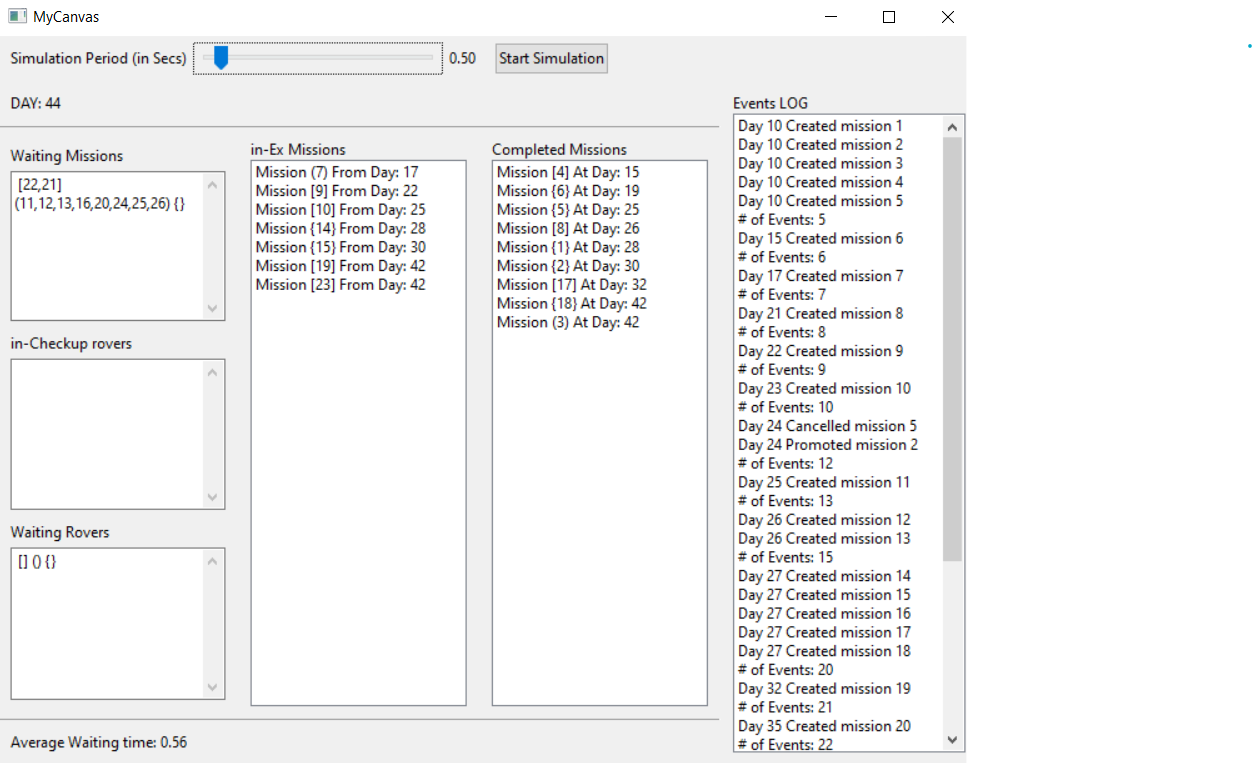
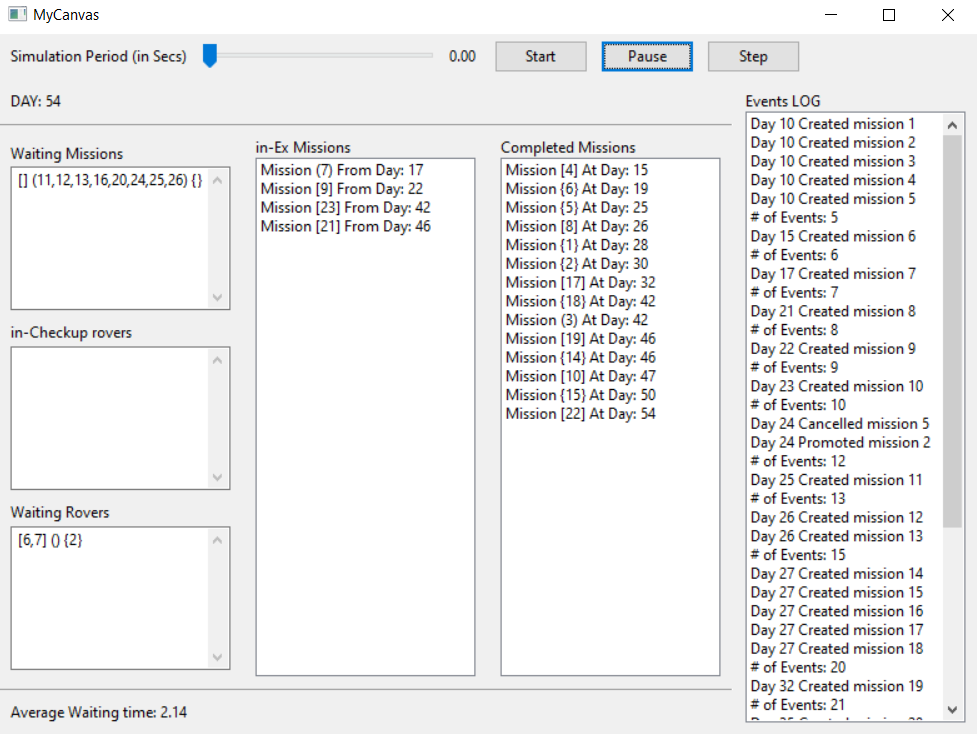
The Interactive mode

diff --git a/FRAME.h b/FRAME.h
@@ -8,7 +8,9 @@
 
 #include "Formulation.h"
 #include "Promotion.h"
-wxDEFINE_EVENT(START_SIMULATION, wxCommandEvent);
+
+
+//wxDEFINE_EVENT(START_SIMULATION, wxCommandEvent);
 
 
 class MyCanvas : public wxFrame
@@ -18,21 +20,26 @@ public:
 	wxMessageDialog* error_dial;
 	wxMessageDialog* info_dial;
 
-	
+
 	MarsStation* p_station;
+	void init_station();
 	//upper part
 
 	wxSlider* slider;
 	wxStaticText* slider_label;
 	wxStaticText* slider_value;
 	wxButton* Start_B;
+	wxButton* Pause_B;
+	wxButton* Step_B;
 
 
 
 	void OnScroll(wxScrollEvent& event);
 	void Update_Screen();
-	void OnClick(wxCommandEvent& event);
+	//void OnClick(wxCommandEvent& event);
 	void OnStart(wxCommandEvent& event);
+	void OnPause(wxCommandEvent& event);
+	void OnStep(wxCommandEvent& event);
 
 
 
@@ -57,15 +64,16 @@ public:
 	titled_List_panel* in_ex_list;
 	titled_List_panel* comp_miss_list;
 
+	bool continue_sim;
 
 	~MyCanvas();
 };
 
 MyCanvas::MyCanvas(const wxString& title)
-	:wxFrame(NULL, wxID_ANY, title, wxDefaultPosition, wxSize(800, 600))
+	:wxFrame(NULL, wxID_ANY, title, wxDefaultPosition, wxSize(800, 600)), continue_sim(true)
 {
 	wxFrame::SetMinSize(wxSize(700, 600));
-
+	init_station();
 	//designing that shit
 
 	wxPanel* panel = new wxPanel(this, -1);
@@ -78,17 +86,18 @@ MyCanvas::MyCanvas(const wxString& title)
 	slider = new wxSlider(panel, ID_SLIDER, 2, 0, 20, wxPoint(-1, -1),
 		wxSize(200, -1), wxSL_HORIZONTAL);
 
-	Start_B = new wxButton(panel, ID_Start_B, wxT("Start Simulation"));;
-
+	Start_B = new wxButton(panel, ID_Start_B, wxT("Start"));
+	Pause_B = new wxButton(panel, ID_Pause_B, wxT("Pause"));
+	Step_B = new wxButton(panel, ID_Step_B, wxT("Step"));
 
 	Connect(ID_SLIDER, wxEVT_COMMAND_SLIDER_UPDATED,
 		wxScrollEventHandler(MyCanvas::OnScroll));
-
-	Connect(ID_Start_B, wxEVT_COMMAND_BUTTON_CLICKED,
-		wxCommandEventHandler(MyCanvas::OnStart));
-
-	//Bind(START_SIMULATION, &MyCanvas::OnStart, this);
-
+	//Bind is Better than Connect
+	Start_B->Bind(wxEVT_COMMAND_BUTTON_CLICKED, &MyCanvas::OnStart, this);
+	Pause_B->Bind(wxEVT_COMMAND_BUTTON_CLICKED, &MyCanvas::OnPause, this);
+	Step_B->Bind(wxEVT_COMMAND_BUTTON_CLICKED, &MyCanvas::OnStep, this);
+	
+	
 	slider_value = new wxStaticText(panel, ID_SLIDER_value, wxT("1.00"));
 	h_upper_box->AddSpacer(10);
 
@@ -97,6 +106,8 @@ MyCanvas::MyCanvas(const wxString& title)
 	h_upper_box->Add(slider_value, 0, wxEXPAND | wxUP, 10);
 	h_upper_box->AddSpacer(10);
 	h_upper_box->Add(Start_B, 0, wxEXPAND | wxALL, 5);
+	h_upper_box->Add(Pause_B, 0, wxEXPAND | wxALL, 5);
+	h_upper_box->Add(Step_B, 0, wxEXPAND | wxALL, 5);
 
 
 
@@ -106,7 +117,7 @@ MyCanvas::MyCanvas(const wxString& title)
 
 	wxBoxSizer* v_miss_with_average_and_day_box = new wxBoxSizer(wxVERTICAL);
 
-	day_text = new wxStaticText(panel, -1, wxT("DAY: 00"),wxPoint(-1,-1),wxSize(300,-1));
+	day_text = new wxStaticText(panel, -1, wxT("DAY: 00"), wxPoint(-1, -1), wxSize(300, -1));
 
 
 
@@ -148,7 +159,7 @@ MyCanvas::MyCanvas(const wxString& title)
 
 
 
-	average_text = new wxStaticText(panel, -1, wxT("Average Waiting time: 0.00"),wxPoint(-1, -1), wxSize(300, -1));
+	average_text = new wxStaticText(panel, -1, wxT("Average Waiting time: 0.00"), wxPoint(-1, -1), wxSize(300, -1));
 
 	v_miss_with_average_and_day_box->Add(day_text, 0, wxEXPAND | wxALL, 10);
 	wxStaticLine* sl1 = new wxStaticLine(panel, wxID_ANY, wxPoint(-1, -1),
@@ -183,6 +194,20 @@ MyCanvas::MyCanvas(const wxString& title)
 	panel->SetSizer(v_all_box);
 	Center();
 }
+
+inline void MyCanvas::init_station()
+{
+	p_station = new MarsStation;
+	if (!p_station->check_valid_data())
+	{
+		bool isWritten = p_station->write_output_file();
+
+		error_dial = new wxMessageDialog(NULL,
+			wxT("Error: Wrong Input Data."), wxT("Error"), wxOK | wxICON_ERROR);
+		error_dial->ShowModal();
+	}
+
+}
 inline MyCanvas::~MyCanvas()
 {
 	delete error_dial;
@@ -190,7 +215,7 @@ inline MyCanvas::~MyCanvas()
 
 
 	delete p_station;
-	
+
 
 
 }
@@ -204,64 +229,73 @@ inline void MyCanvas::OnScroll(wxScrollEvent& event)
 
 }
 
-inline void MyCanvas::OnClick(wxCommandEvent& event)
-{
 
-
-	wxCommandEvent eve(START_SIMULATION); // No specific id
-
-
-	//// Then post the event
-	wxPostEvent(this, eve); // to ourselves
-
-}
 inline void MyCanvas::OnStart(wxCommandEvent& event)
 {
 	wxTheApp->Yield();
-	p_station = new MarsStation;
+	
 
-	if (!p_station->check_valid_data())
-	{
-		bool isWritten = p_station->write_output_file();
-
-		error_dial = new wxMessageDialog(NULL,
-			wxT("Error: Wrong Input Data."), wxT("Error"), wxOK | wxICON_ERROR);
-		error_dial->ShowModal();
-
-		
-		return;
-	}
-
-	while (!p_station->check_last_day())
+	continue_sim = true; //to continue it if it was paused
+	while (continue_sim && !p_station->check_last_day())
 	{
 		p_station->simulate_day();
 		Update_Screen();
 		Sleep(slider->GetValue() / 2.0 * 1000);
 	}
 
-
-	bool isWritten = p_station->write_output_file();
-
-	if(isWritten)
+	if (p_station->check_last_day())
 	{
 
-		info_dial = new wxMessageDialog(NULL,
-			wxT("Output File was Created."), wxT("Finished"), wxOK);
-		info_dial->ShowModal();
-		
+		bool isWritten = p_station->write_output_file();
+
+		if (isWritten)
+		{
+
+			info_dial = new wxMessageDialog(NULL,
+				wxT("Output File was Created."), wxT("Finished"), wxOK);
+			info_dial->ShowModal();
+
+		}
 	}
 
 
-	
+
 }
 
+void MyCanvas::OnPause(wxCommandEvent& event)
+{
+	continue_sim = false;
+
+}
+void MyCanvas::OnStep(wxCommandEvent& event)
+{
+	p_station->simulate_day();
+	Update_Screen();
+
+
+
+	if (p_station->check_last_day())
+	{
+
+		bool isWritten = p_station->write_output_file();
+
+		if (isWritten)
+		{
+
+			info_dial = new wxMessageDialog(NULL,
+				wxT("Output File was Created."), wxT("Finished"), wxOK);
+			info_dial->ShowModal();
+
+		}
+	}
+}
 inline void MyCanvas::Update_Screen()
 {
 	wxTheApp->Yield();
 
 	//wxString stringnumber = wxString::Format(wxT( "DAY %.0f"), p_station->get_current_day());
 
-	day_text->SetLabel("DAY: "+ std::to_string(p_station->get_current_day()));
+	day_text->SetLabel("DAY: " + std::to_string(p_station->get_current_day()));
 
 	waiting_miss->Clear();
 	// First --> print the ID of the E missions
@@ -474,7 +508,7 @@ inline void MyCanvas::Update_Screen()
 	int no_completed = p_station->get_completed_missions_().getItemCount();
 	for (int i = 1; i <= no_completed; i++)   //itemCount does not change during this loop
 	{
-		
+
 		std::string ss = "Mission";
 		Mission* mm = p_station->get_completed_missions_().getEntry(i);
 		waiting_days += mm->getWD();
@@ -542,7 +576,7 @@ inline void MyCanvas::Update_Screen()
 	{
 		average_text->SetLabel(wxString::Format(wxT("Average Waiting time: %.2f"), waiting_days / no_completed));
 	}
-	
+
 
 
 

diff --git a/UI.cpp b/UI.cpp
@@ -14,11 +14,11 @@ SIM_MODE UI::get_input_mode()
 {
 
 	std::cout << "Please select The mode you want to enter" << endl <<
-		"1- Interactive Mode\n2- Step-By-Step Mode\n3- Silent Mode\n enter: ";
+		"1- Interactive Mode(GUI)\n2- Silent Mode\n enter: ";
 
 	int n;
 	cin >> n;
-	while (n > 3 || n < 1)
+	while (n > 2 || n < 1)
 	{
 		cout << "Please enter a valid number: ";
 		cin >> n;
@@ -27,9 +27,6 @@ SIM_MODE UI::get_input_mode()
 	SIM_MODE a;
 	if (n == 1)
 		return SIM_MODE::INTERACTIVE;
-
-	if (n == 2)
-		return SIM_MODE::STEP_BY_STEP;
 
 	return SIM_MODE::SILENT;
 }

diff --git a/MarsStation.cpp b/MarsStation.cpp
@@ -32,20 +32,9 @@ SIM_MODE MarsStation::get_input_mode() const
 
 void MarsStation::execute_mode(SIM_MODE mode)
 {
-	if (mode == SIM_MODE::INTERACTIVE)
-	{
-		my_ui->InteractivePrinting();
-	}
-	else if (mode == SIM_MODE::STEP_BY_STEP)
-	{
-		my_ui->StepByStepPrinting();
-
-	}
-	else
-	{
+	
 		my_ui->SilentPrinting();
 
-	}
 }
 
 

diff --git a/Defs.h b/Defs.h
@@ -5,7 +5,6 @@
 enum class SIM_MODE
 {
 	INTERACTIVE,
-	STEP_BY_STEP,
 	SILENT
 };
 
@@ -44,3 +43,5 @@ int const ID_CheckUP_ROVER_TEXT = 102;
 const int ID_SLIDER = 103;
 const int ID_SLIDER_value = 104;
 const int ID_Start_B = 105;
+const int ID_Pause_B = 106;
+const int ID_Step_B = 107;

diff --git a/main.cpp b/main.cpp
@@ -37,7 +37,7 @@ int main()
 	
 
 	SIM_MODE mode = UI::get_input_mode();
-	if (mode == SIM_MODE::STEP_BY_STEP) //as i only implement the Step by Step Here
+	if (mode == SIM_MODE::INTERACTIVE) //as i only implement the Step by Step Here
 	{
 		wxEntry();
 	}

diff --git a/ReadMe.md b/ReadMe.md
@@ -1,11 +1,9 @@
 # Project: Mars-Exploration
-#### Same as the Base Project [*here*](https://github.com/AhmedAlaa2024/Mars-Exploration)
+#### - Same as the Base Project [*here*](https://github.com/AhmedAlaa2024/Mars-Exploration)
 
 
 #### I added a GUI to the Program instead of the console.
-> The GUI is only in the Step-by-step Mode till now (will add the other modes later)
-
-> feel free to add whatever features you see
+> Feel free to add whatever features you see
 
 #### Setting-Up The Lib
 * **Open Properties**
